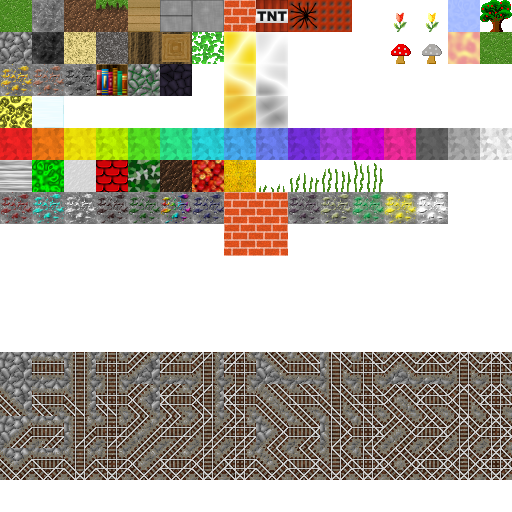
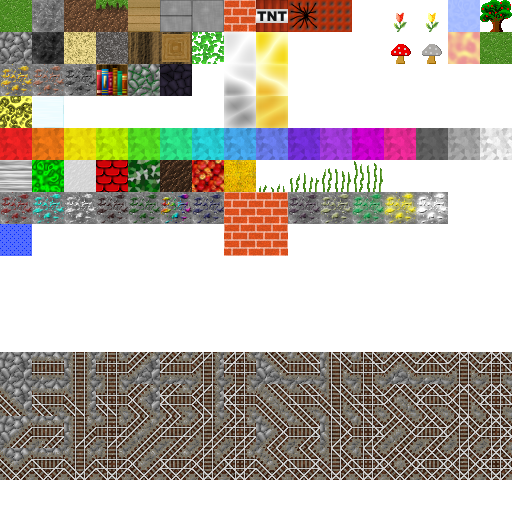
Simple crafting table. Swapped gold block and iron block images.

Changed region(s): [[0.4375, 0.0625, 0.5625, 0.25], [0.0, 0.4375, 0.0625, 0.5]]

diff --git a/GameModeFortress/ModeFortress.cs b/GameModeFortress/ModeFortress.cs
@@ -186,6 +186,7 @@ namespace GameModeFortress
             map.MapSizeZ = 64;
             */
             mapforphysics = new MapForPhysics() { game = this };
+            MakeRecipes();
         }
         float currentvehiclespeed;
         Vector3 currentrailblock;
@@ -321,6 +322,7 @@ namespace GameModeFortress
         bool railriding = false;
         bool wasqpressed = false;
         bool wasvpressed = false;
+        bool wascpressed = false;
         VehicleDirection12? BestNewDirection(VehicleDirection12Flags dir, bool turnleft, bool turnright)
         {
             if (turnright)
@@ -561,8 +563,66 @@ namespace GameModeFortress
                 ExitVehicle();
                 viewport.LocalPlayerPosition += new Vector3(0, 0.7f, 0);
             }
+            if (!wascpressed && viewport.keyboardstate[OpenTK.Input.Key.C])
+            {
+                if (viewport.PickCubePos != new Vector3(-1, -1, -1))
+                {
+                    Vector3i pos=new Vector3i((int)viewport.PickCubePos.X, (int)viewport.PickCubePos.Z, (int)viewport.PickCubePos.Y);
+                    if (map.GetBlock(pos.x,pos.y,pos.z)
+                        == (int)TileTypeManicDigger.CraftingTable)
+                    {
+                        CommandCraft cmd = new CommandCraft();
+                        cmd.x = (short)pos.x;
+                        cmd.y = (short)pos.y;
+                        cmd.z = (short)pos.z;
+                        network.SendCommand(MakeCommand(CommandId.Craft, cmd));
+                    }
+                }                
+            }
             wasqpressed = viewport.keyboardstate[OpenTK.Input.Key.Q];
             wasvpressed = viewport.keyboardstate[OpenTK.Input.Key.V];
+            wascpressed = viewport.keyboardstate[OpenTK.Input.Key.C];
+        }
+        private List<Vector3i> GetTable(Vector3i pos)
+        {
+            int maxcraftingtablesize = 200;
+            List<Vector3i> l = new List<Vector3i>();
+            Queue<Vector3i> todo = new Queue<Vector3i>();
+            todo.Enqueue(pos);
+            for (; ; )
+            {
+                if (todo.Count == 0 || l.Count >= maxcraftingtablesize)
+                {
+                    break;
+                }
+                var p = todo.Dequeue();
+                if (l.Contains(p))
+                {
+                    continue;
+                }
+                l.Add(p);
+                var a = new Vector3i(p.x + 1, p.y, p.z);
+                if (map.GetBlock(a.x, a.y, a.z) == (int)TileTypeManicDigger.CraftingTable)
+                {
+                    todo.Enqueue(a);
+                }
+                var b = new Vector3i(p.x - 1, p.y, p.z);
+                if (map.GetBlock(b.x, b.y, b.z) == (int)TileTypeManicDigger.CraftingTable)
+                {
+                    todo.Enqueue(b);
+                }
+                var c = new Vector3i(p.x, p.y + 1, p.z);
+                if (map.GetBlock(c.x, c.y, c.z) == (int)TileTypeManicDigger.CraftingTable)
+                {
+                    todo.Enqueue(c);
+                }
+                var d = new Vector3i(p.x, p.y - 1, p.z);
+                if (map.GetBlock(d.x, d.y, d.z) == (int)TileTypeManicDigger.CraftingTable)
+                {
+                    todo.Enqueue(d);
+                }
+            }
+            return l;
         }
         private void ExitVehicle()
         {
@@ -841,9 +901,113 @@ namespace GameModeFortress
                         cmd.FromStream(ms);
                     }
                     break;
+                case CommandId.Craft:
+                    {
+                        var cmd = new CommandCraft();
+                        cmd.FromStream(ms);
+                        if (map.GetBlock(cmd.x, cmd.y, cmd.z) != (int)TileTypeManicDigger.CraftingTable)
+                        {
+                            return;
+                        }
+                        List<Vector3i> table = GetTable(new Vector3i(cmd.x, cmd.y, cmd.z));
+                        List<int> ontable = new List<int>();
+                        List<int> outputtoadd = new List<int>();
+                        foreach (var v in table)
+                        {
+                            int t = map.GetBlock(v.x, v.y, v.z + 1);
+                            ontable.Add(t);
+                        }
+                        for (int i = 0; i < craftingrecipes.Count; i++)
+                        {
+                            //try apply recipe. if success then try until fail.
+                            for (; ; )
+                            {
+                                //check if ingredients available
+                                foreach(Ingredient ingredient in craftingrecipes[i].ingredients)
+                                {
+                                    if (ontable.FindAll(v => v == ingredient.Type).Count < ingredient.Amount)
+                                    {
+                                        goto nextrecipe;
+                                    }
+                                }
+                                //remove ingredients
+                                foreach (Ingredient ingredient in craftingrecipes[i].ingredients)
+                                {
+                                    for (int ii = 0; ii < ingredient.Amount; ii++)
+                                    {
+                                        //replace on table
+                                        ReplaceOne(ontable, ingredient.Type, (int)TileTypeMinecraft.Empty);
+                                    }
+                                }
+                                //add output
+                                for (int z = 0; z < craftingrecipes[i].output.Amount;z++)
+                                {
+                                    outputtoadd.Add(craftingrecipes[i].output.Type);
+                                }
+                            }
+                        nextrecipe:
+                            ;
+                        }
+                        foreach (var v in outputtoadd)
+                        {
+                            ReplaceOne(ontable, (int)TileTypeMinecraft.Empty, v);
+                        }
+                        int zz = 0;
+                        foreach (var v in table)
+                        {
+                            map.SetBlock(v.x, v.y, v.z + 1, ontable[zz]);
+                            terrain.UpdateTile(cmd.x, cmd.y, cmd.z);
+                            zz++;
+                        }
+                        break;
+                    }
                 default:
                     throw new Exception();
             }
+        }
+        private void ReplaceOne<T>(List<T> l, T from, T to)
+        {
+            for (int ii = 0; ii < l.Count; ii++)
+            {
+                if (l[ii].Equals(from))
+                {
+                    l[ii] = to;
+                    break;
+                }
+            }
+        }
+        public class Ingredient
+        {
+            public int Type;
+            public int Amount;
+        }
+        public class CraftingRecipe
+        {
+            public List<Ingredient> ingredients = new List<Ingredient>();
+            public Ingredient output = new Ingredient();
+        }
+        List<CraftingRecipe> craftingrecipes = new List<CraftingRecipe>();
+        void MakeRecipes()
+        {
+            craftingrecipes = new List<CraftingRecipe>();
+            MakeRecipe(TileTypeMinecraft.Stone, 2, TileTypeMinecraft.Cobblestone, 1);
+            MakeRecipe(TileTypeMinecraft.Cobblestone, 2, TileTypeMinecraft.Stone, 1);
+            MakeRecipe(TileTypeMinecraft.TreeTrunk, 1, TileTypeMinecraft.Wood, 1);
+            MakeRecipe(TileTypeMinecraft.Stone, 2, TileTypeMinecraft.Brick, 1);
+            MakeRecipe(TileTypeMinecraft.GoldOre, 1, TileTypeMinecraft.CoalOre, 1, TileTypeMinecraft.GoldBlock, 1);
+            MakeRecipe(TileTypeMinecraft.IronOre, 1, TileTypeMinecraft.CoalOre, 1, TileTypeMinecraft.IronBlock, 1);
+            MakeRecipe(TileTypeMinecraft.Wood, 1, TileTypeMinecraft.IronBlock, 1, GameDataTilesManicDigger.railstart + (int)RailDirectionFlags.TwoHorizontalVertical, 1);
+            MakeRecipe(TileTypeMinecraft.Wood, 3, TileTypeManicDigger.CraftingTable, 1);
+        }
+        void MakeRecipe(params object[] r)
+        {
+            var recipe = new CraftingRecipe();
+            for (int i = 0; i < r.Length - 2; i += 2)
+            {
+                recipe.ingredients.Add(new Ingredient() { Type = Convert.ToInt32(r[i]), Amount = Convert.ToInt32(r[i + 1]) });
+            }
+            recipe.output = new Ingredient() { Type = Convert.ToInt32(r[r.Length - 2]), Amount = Convert.ToInt32(r[r.Length - 1]) };
+            craftingrecipes.Add(recipe);
         }
         class RailVehicle
         {
@@ -1029,6 +1193,7 @@ namespace GameModeFortress
     {
         Build,
         EnterLeaveRailVehicle,
+        Craft,
     }
     public interface IStreamizable
     {
@@ -1086,6 +1251,31 @@ namespace GameModeFortress
         }
         #endregion
     }
+    public class CommandCraft : IStreamizable
+    {
+        public short x;
+        public short y;
+        public short z;
+        public short blocktype;
+        #region IStreamizable Members
+        public void ToStream(Stream s)
+        {
+            BinaryWriter bw = new BinaryWriter(s);
+            bw.Write((short)x);
+            bw.Write((short)y);
+            bw.Write((short)z);
+            bw.Write((short)blocktype);
+        }
+        public void FromStream(Stream s)
+        {
+            BinaryReader br = new BinaryReader(s);
+            x = br.ReadInt16();
+            y = br.ReadInt16();
+            z = br.ReadInt16();
+            blocktype = br.ReadInt16();
+        }
+        #endregion
+    }
     public class GameDataTilesManicDigger : IGameData
     {
         public GameDataTilesMinecraft data = new GameDataTilesMinecraft();
@@ -1103,6 +1293,7 @@ namespace GameModeFortress
             datanew[(int)TileTypeManicDigger.Crops2] = new TileTypeData() { Buildable = true, AllTextures = (5 * 16) + 9 };
             datanew[(int)TileTypeManicDigger.Crops3] = new TileTypeData() { Buildable = true, AllTextures = (5 * 16) + 10 };
             datanew[(int)TileTypeManicDigger.Crops4] = new TileTypeData() { Buildable = true, AllTextures = (5 * 16) + 11 };
+            datanew[(int)TileTypeManicDigger.CraftingTable] = new TileTypeData() { Buildable = true, AllTextures = (7 * 16) + 0 };
         }
         #region IGameData Members
         public int GetTileTextureId(int tileType, TileSide side)
@@ -1315,5 +1506,6 @@ namespace GameModeFortress
         Crops2,
         Crops3,
         Crops4,
+        CraftingTable,
     }
 }

diff --git a/GameWindow.cs b/GameWindow.cs
@@ -304,6 +304,7 @@ namespace ManicDigger
         void Log(string s);
         Dictionary<string, string> PerformanceInfo { get; }
         AnimationHint LocalPlayerAnimationHint { get; set; }
+        Vector3 PickCubePos { get; }
     }
     public class AnimationHint
     {
@@ -344,6 +345,9 @@ namespace ManicDigger
         #endregion
         #region IViewport3d Members
         public AnimationHint LocalPlayerAnimationHint { get; set; }
+        #endregion
+        #region IViewport3d Members
+        public Vector3 PickCubePos { get; set; }
         #endregion
     }
     public interface IModelToDraw
@@ -2199,7 +2203,7 @@ namespace ManicDigger
             return new Vector3((int)a.X, (int)a.Z, (int)a.Y);
         }
         bool fastclicking = false;
-        Vector3 pickcubepos;
+        public Vector3 pickcubepos;
         //double currentTime = 0;
         double accumulator = 0;
         double t = 0;
@@ -3606,6 +3610,9 @@ namespace ManicDigger
             get { return localplayeranimationhint; }
             set { localplayeranimationhint = value; }
         }
+        #endregion
+        #region IViewport3d Members
+        public Vector3 PickCubePos { get { return pickcubepos; } }
         #endregion
     }
 }

diff --git a/GameModeFortress/Program.cs b/GameModeFortress/Program.cs
@@ -37,9 +37,11 @@ namespace GameModeFortress
         {
         }
         #endregion
+        public IGameWorld gameworld;
         #region INetworkClient Members
         public void SendCommand(byte[] cmd)
         {
+            gameworld.DoCommand(cmd, 0);
         }
         #endregion
     }
@@ -65,17 +67,16 @@ namespace GameModeFortress
         private void MakeGame(bool singleplayer)
         {
             var gamedata = new GameDataTilesManicDigger();
-
+            var clientgame = new GameFortress();
             INetworkClient network;
             if (singleplayer)
             {
-                network = new NetworkClientDummyInfinite();
+                network = new NetworkClientDummyInfinite() { gameworld = clientgame };
             }
             else
             {
                 network = new NetworkClientMinecraft();
-            }
-            var clientgame = new GameFortress();
+            }            
             var mapstorage = clientgame;
             var getfile = new GetFilePath(new[] { "mine", "minecraft" });
             var config3d = new Config3d();
